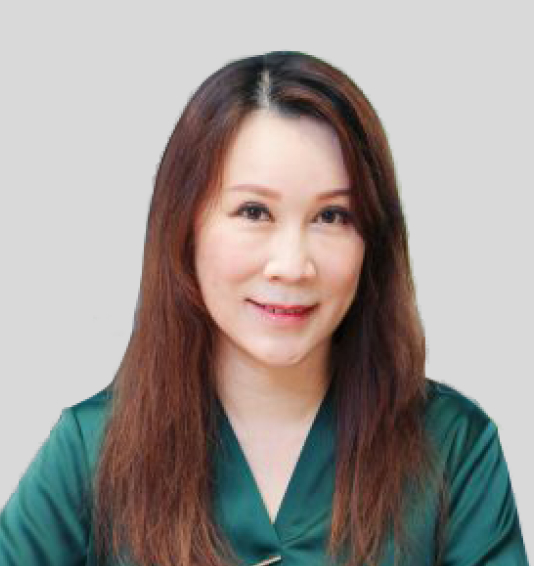
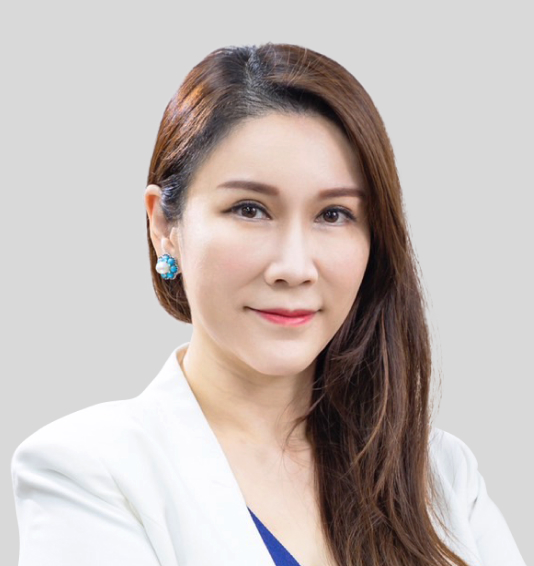
20221213_1220講座與談人換照片

diff --git a/forum/20221220/introduce.html b/forum/20221220/introduce.html
@@ -137,7 +137,7 @@
                     </div>
                   </div> 
                   <div class="guest">
-                    <img src="http://192.168.1.234/event22/design/seminar/images/introduce_20221220/guest11.jpg">
+                    <img src="http://192.168.1.234/event22/design/seminar/images/introduce_20221220/guest11.jpg?v=20221213">
                     <div class="caption">
                         <h2>畢婉蘋</h2>
                         <p>日益能源 執行長</p>
